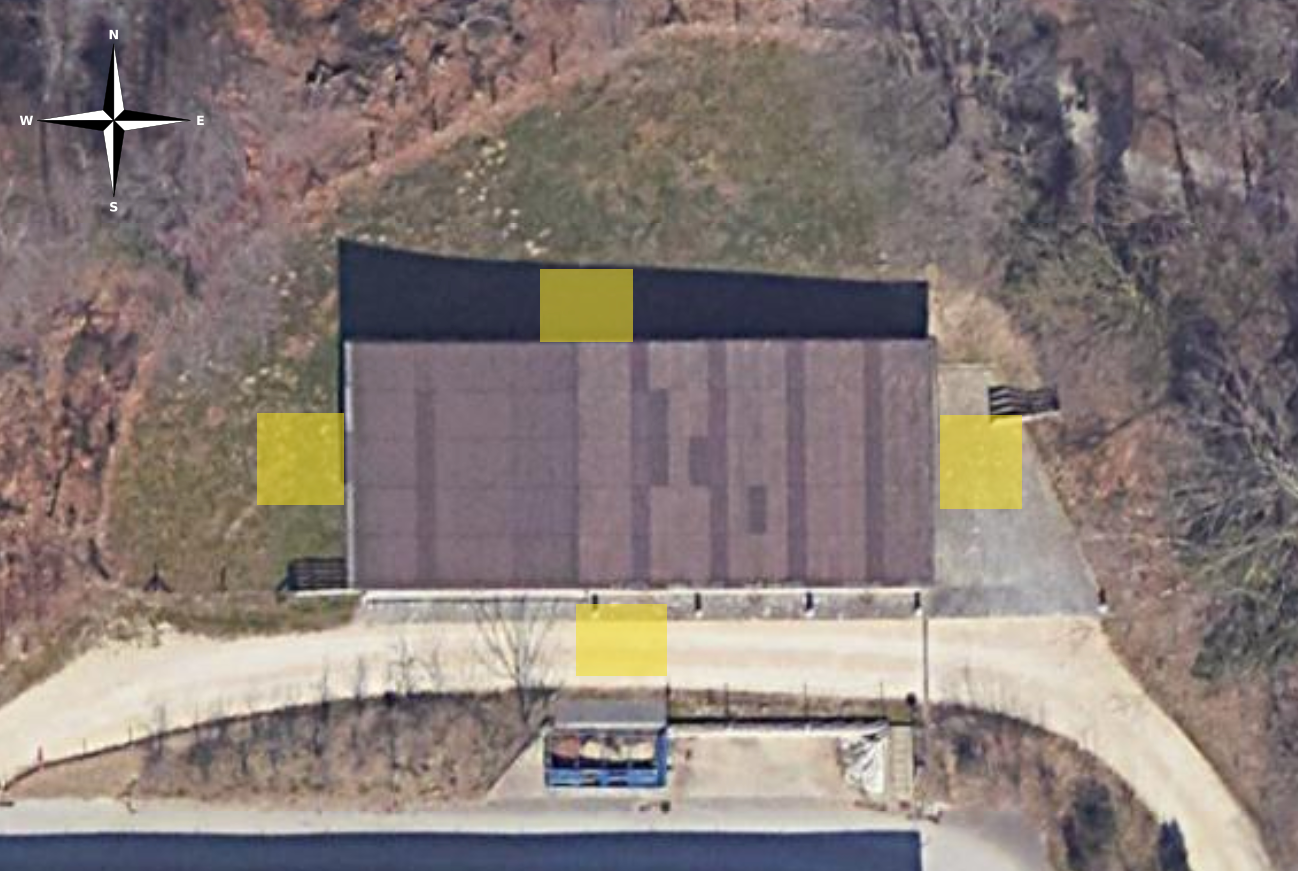
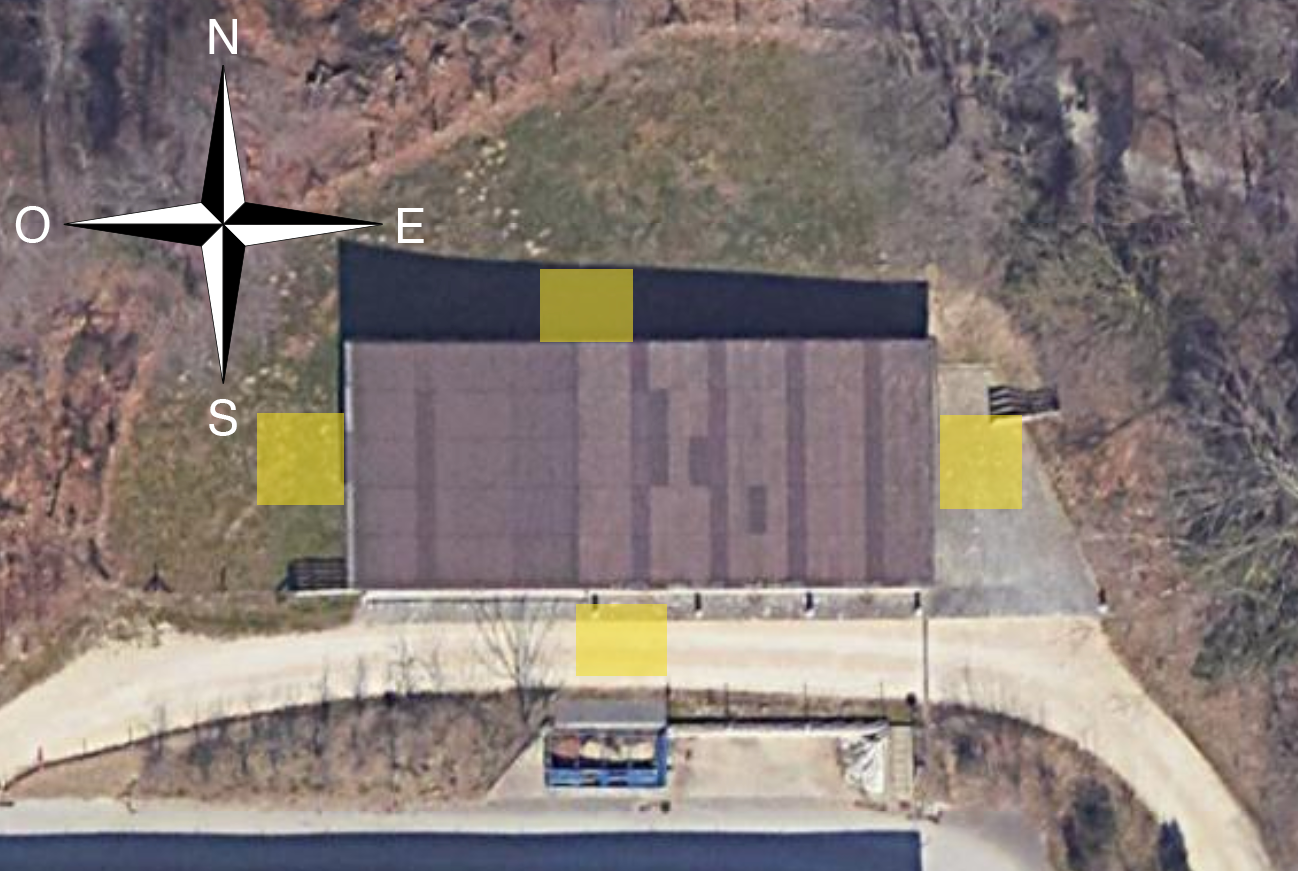
More modifications
- Enlarged wind compass on bergerie_nests.png
- Fixed bug where the nest workshop wouldn't be hidden
- Tweaked clutch health visuals
- Fixed layout issue on home

Changed region(s): [[0.0, 0.062, 0.339, 0.496], [0.1541, 0.0, 0.1849, 0.062]]

diff --git a/index.html b/index.html
@@ -12,8 +12,9 @@
 
 <body>
     <div class="main-container">
+        <!-- Health bars - left column -->
         <div id="health-bar-container">
-            <!-- Portée A en mauvaise santé -->
+            <!-- Clutch A - unhealthy -->
             <div>
                 <div class="flex justify-center jumping-image-container">
                     <img src="static/img/happy_clutch3.png" alt="Portée en bonne santé"
@@ -28,7 +29,7 @@
                 </div>
                 <label for="custom-progress-bar" id="health-bar-label">Santé de la portée A</label>
             </div>
-            <!-- Portée B en bonne santé -->
+            <!-- Clutch B - healthy -->
             <div>
                 <div class="flex justify-center jumping-image-container">
                     <img src="static/img/happy_clutch3.png" alt="Portée en bonne santé"
@@ -43,6 +44,9 @@
             </div>
 
         </div>
+        <!-- End health bar container -->
+
+        <!-- Main content - right side -->
         <div id="content-container">
             <div id="home">
                 <div class="flex justify-center ">
@@ -51,7 +55,7 @@
 
                 <div class="flex space-around">
                     <button id="food-workshop-btn">Nourriture</button>
-                    <button id="biometric-workshop-btn">Mesures biométriques</button>
+                    <button id="biometric-workshop-btn">Mesures <br> biométriques</button>
                     <button id="nest-workshop-btn">Nichoir</button>
                 </div>
             </div>
@@ -60,6 +64,9 @@
                 <div>
                     <button id="back-btn" class="util-btn">Retour</button>
                 </div>
+
+                <!-- Food workshop -->
+
                 <div id="food-workshop" class="workshop-container hidden">
                     <h1>Atelier "Nourriture"</h1>
                     <div class="workshop-inner">
@@ -84,6 +91,9 @@
                         </div>
                     </div>
                 </div>
+
+                <!-- Biometric workshop -->
+
                 <div id="biometric-workshop" class="workshop-container hidden">
                     <div class="workshop-inner">
                         <h1>Atelier "Mesures biométriques"</h1>
@@ -152,48 +162,54 @@
                         </div>
                     </div>
                 </div>
-            </div>
-            <div id="nest-workshop" class="workshop-container hidden">
-                <h1>Atelier "Nichoir"</h1>
-                <div class="workshop-inner">
-                    <div id="nest-step-1">
-                        <h2>1. Écouter les chants/cris de chaque espèce</h2>
-                        <div id="nest-sing-container" class="flex justify-center">
-                            <button id="nest-btn-merle" class="sing-btn">A</button>
-                            <button id="nest-btn-effraie" class="sing-btn">B</button>
-                            <button id="nest-btn-hulotte" class="sing-btn">C</button>
-                            <button id="nest-btn-loriot" class="sing-btn">D</button>
-                            <button id="nest-btn-mesange" class="sing-btn">E</button>
-                            <button id="nest-btn-effraie2" class="sing-btn">F</button>
-                        </div>
-                        <div class="flex justify-center">
-                            <p id="nest-results-container"><!-- Populated by js --></p>
-                        </div>
-                    </div>
-                    <div id="nest-step-2">
-                        <h2>2. Déplacer le nichoir</h2>
-                        <p>Quel est le meilleur endroit où placer le nid ?</p>
-                        <div>
-                            <div id="nest-choices" class="flex justify-center">
-                                <button class="choice-btn" id="nest-choice-north">Nord</button>
-                                <button class="choice-btn" id="nest-choice-east">Est</button>
-                                <button class="choice-btn" id="nest-choice-south">Sud</button>
-                                <button class="choice-btn" id="nest-choice-west">Ouest</button>
+
+                <!-- Nest workshop -->
+
+                <div id="nest-workshop" class="workshop-container hidden">
+                    <h1>Atelier "Nichoir"</h1>
+                    <div class="workshop-inner">
+                        <div id="nest-step-1">
+                            <h2>1. Écouter les chants/cris de chaque espèce</h2>
+                            <div id="nest-sing-container" class="flex justify-center">
+                                <button id="nest-btn-merle" class="sing-btn">A</button>
+                                <button id="nest-btn-effraie" class="sing-btn">B</button>
+                                <button id="nest-btn-hulotte" class="sing-btn">C</button>
+                                <button id="nest-btn-loriot" class="sing-btn">D</button>
+                                <button id="nest-btn-mesange" class="sing-btn">E</button>
+                                <button id="nest-btn-effraie2" class="sing-btn">F</button>
                             </div>
-                            <div id="nest-placement-result"></div>
                             <div class="flex justify-center">
-                                <figure style="width: 400px">
-                                    <img id="bergerie-img" src="static/img/bergerie_nests.png"
-                                        alt="Vue aérienne de la bergerie, avec 4 emplacements de nids possibles, au nord, est, sud, et ouest de la bergerie.">
-                                    <label for="bergerie-img" id="nest-label">Vue aérienne de la bergerie, avec 4
-                                        emplacements de nids possibles</label>
-                                </figure>
+                                <p id="nest-results-container"><!-- Populated by js --></p>
+                            </div>
+                        </div>
+                        <div id="nest-step-2">
+                            <h2>2. Déplacer le nichoir</h2>
+                            <p>Quel est le meilleur endroit où placer le nid ?</p>
+                            <div>
+                                <div id="nest-choices" class="flex justify-center">
+                                    <button class="choice-btn" id="nest-choice-north">Nord</button>
+                                    <button class="choice-btn" id="nest-choice-east">Est</button>
+                                    <button class="choice-btn" id="nest-choice-south">Sud</button>
+                                    <button class="choice-btn" id="nest-choice-west">Ouest</button>
+                                </div>
+                                <div id="nest-placement-result"></div>
+                                <div class="flex justify-center">
+                                    <figure style="width: 400px">
+                                        <img id="bergerie-img" src="static/img/bergerie_nests.png"
+                                            alt="Vue aérienne de la bergerie, avec 4 emplacements de nids possibles, au nord, est, sud, et ouest de la bergerie.">
+                                        <label for="bergerie-img" id="nest-label">Vue aérienne de la bergerie, avec 4
+                                            emplacements de nids possibles</label>
+                                    </figure>
+                                </div>
                             </div>
                         </div>
                     </div>
                 </div>
+                <!-- End individual workshops -->
             </div>
+            <!-- End workshops -->
         </div>
+        <!-- End main content -->
     </div>
     </div>
 

diff --git a/index.js b/index.js
@@ -11,13 +11,9 @@ const fromClass = document.getElementsByClassName.bind(document);
 const fromTag = document.getElementsByTagName.bind(document);
 const create = document.createElement.bind(document);
 
-function show(element) {
-    element.classList.remove("hidden");
-}
-
-function hide(element) {
-    element.classList.add("hidden");
-}
+// Shorthands for showing and hiding elements from view
+const show = element => element.classList.remove("hidden");
+const hide = element => element.classList.add("hidden");
 
 
 /* ------------------------------------------------------------------------- */
@@ -72,6 +68,12 @@ const birdSongs = {
 const originalHealth = 30;
 let health;
 
+const sickClutch = fromId("sick-clutch");
+const happyClutch = fromId("happy-clutch");
+
+// Initialize the health bar for clutch A at original health
+setHealth(originalHealth); // Initialize the health bar
+
 // Initialize the health bar for clutch B at 100%
 const secondBar = fromId("custom-progress-bar2");
 gsap.to(secondBar, {
@@ -80,16 +82,10 @@ gsap.to(secondBar, {
     backgroundColor: "green",
 });
 
-// Initialize the health bar for clutch A at original health
-setHealth(originalHealth); // Initialize the health bar
-
 function setHealth(newHealth) {
-    const sickClutch = fromId("sick-clutch");
-    const happyClutch = fromId("happy-clutch");
-
     health = newHealth;
 
-    if (health > 50) {
+    if (health > 70) {
         show(happyClutch);
         hide(sickClutch);
     } else {
@@ -110,12 +106,12 @@ function setProgressBar(percentage) {
     const progressBar = fromId("custom-progress-bar1");
 
     // let newColor = "red";
-    // if (percentage < 40){
+    // if (percentage < 50){
     //     newColor = gsap.utils.interpolate("red", "orange", percentage/100)
-    // } else if (percentage < 70){
+    // } else if (percentage <= 100){
     //     newColor = gsap.utils.interpolate("orange", "green", percentage/100)
     // }
-    let newColor = gsap.utils.interpolate(["red", "orange", "green"], percentage / 100)
+    let newColor = gsap.utils.interpolate(["red", "red", "orange", "green"], percentage / 100)
     gsap.to(progressBar, {
         x: `${percentage}%`,
         duration: 1,
@@ -339,10 +335,9 @@ fromId('nest-btn-mesange').addEventListener('click', () => toggleSound(birdSongs
 fromId('nest-btn-loriot').addEventListener('click', () => toggleSound(birdSongs.loriot));
 fromId('nest-btn-hulotte').addEventListener('click', () => toggleSound(birdSongs.hulotte));
 fromId('nest-btn-effraie').addEventListener('click', () => toggleSound(birdSongs.effraie));
-fromId('nest-btn-effraie2').addEventListener('click', () => toggleSound(sounds.effraie2));
+fromId('nest-btn-effraie2').addEventListener('click', () => toggleSound(birdSongs.effraie2));
 
 const songsResults = fromId("nest-results-container");
-
 
 function toggleSound(singObject) {
     songsResults.innerHTML = "Code: " + singObject.code

diff --git a/styles.css b/styles.css
@@ -49,6 +49,7 @@ p {
     flex-direction: column;
     justify-content: center;
     height: 100%;
+    margin-left: 2em;
 }
 
 .hidden {
